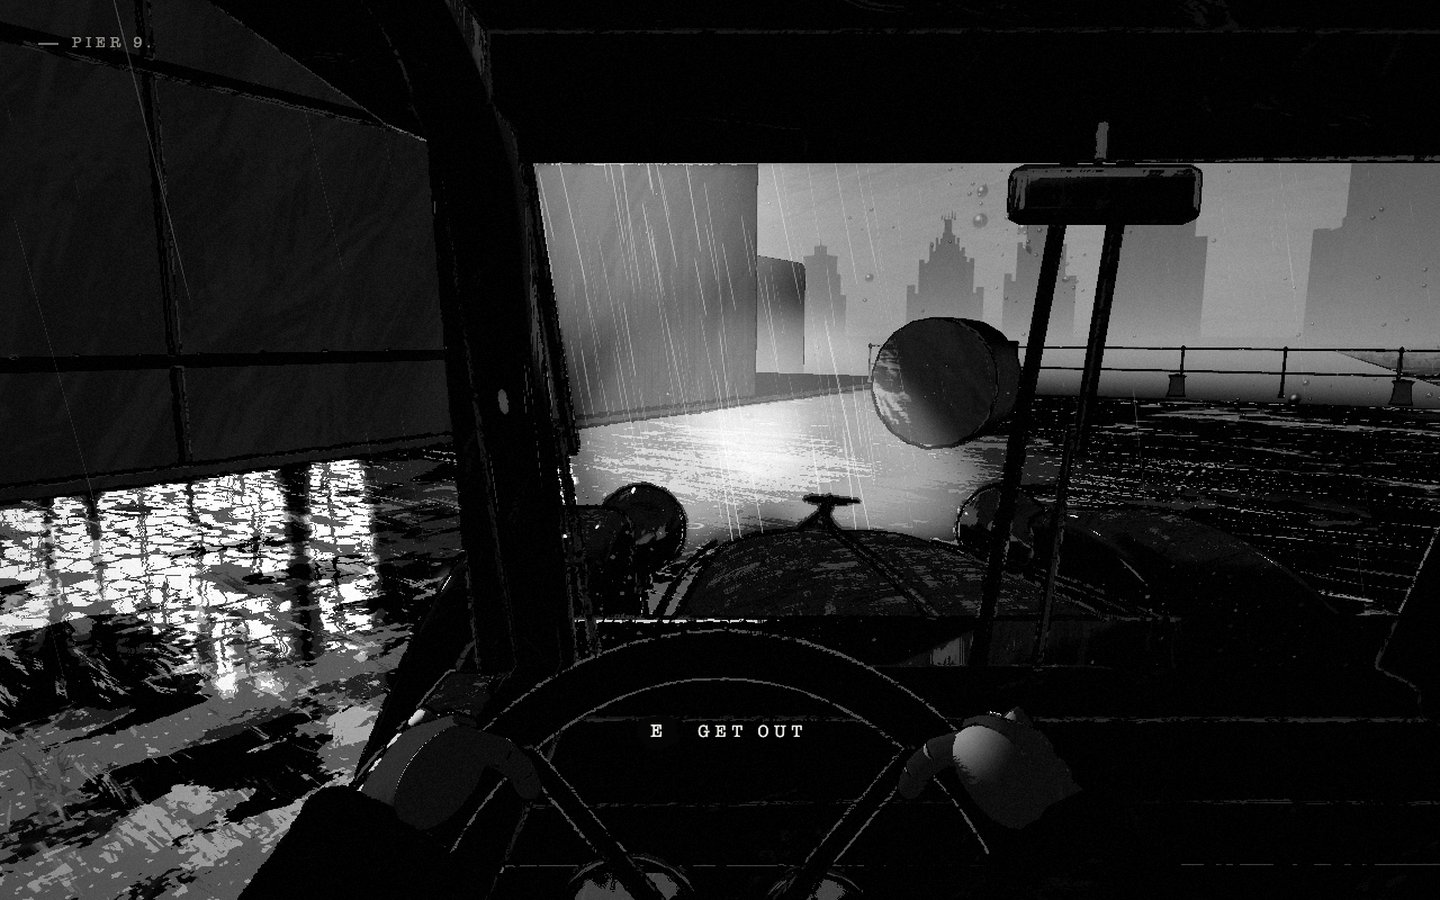
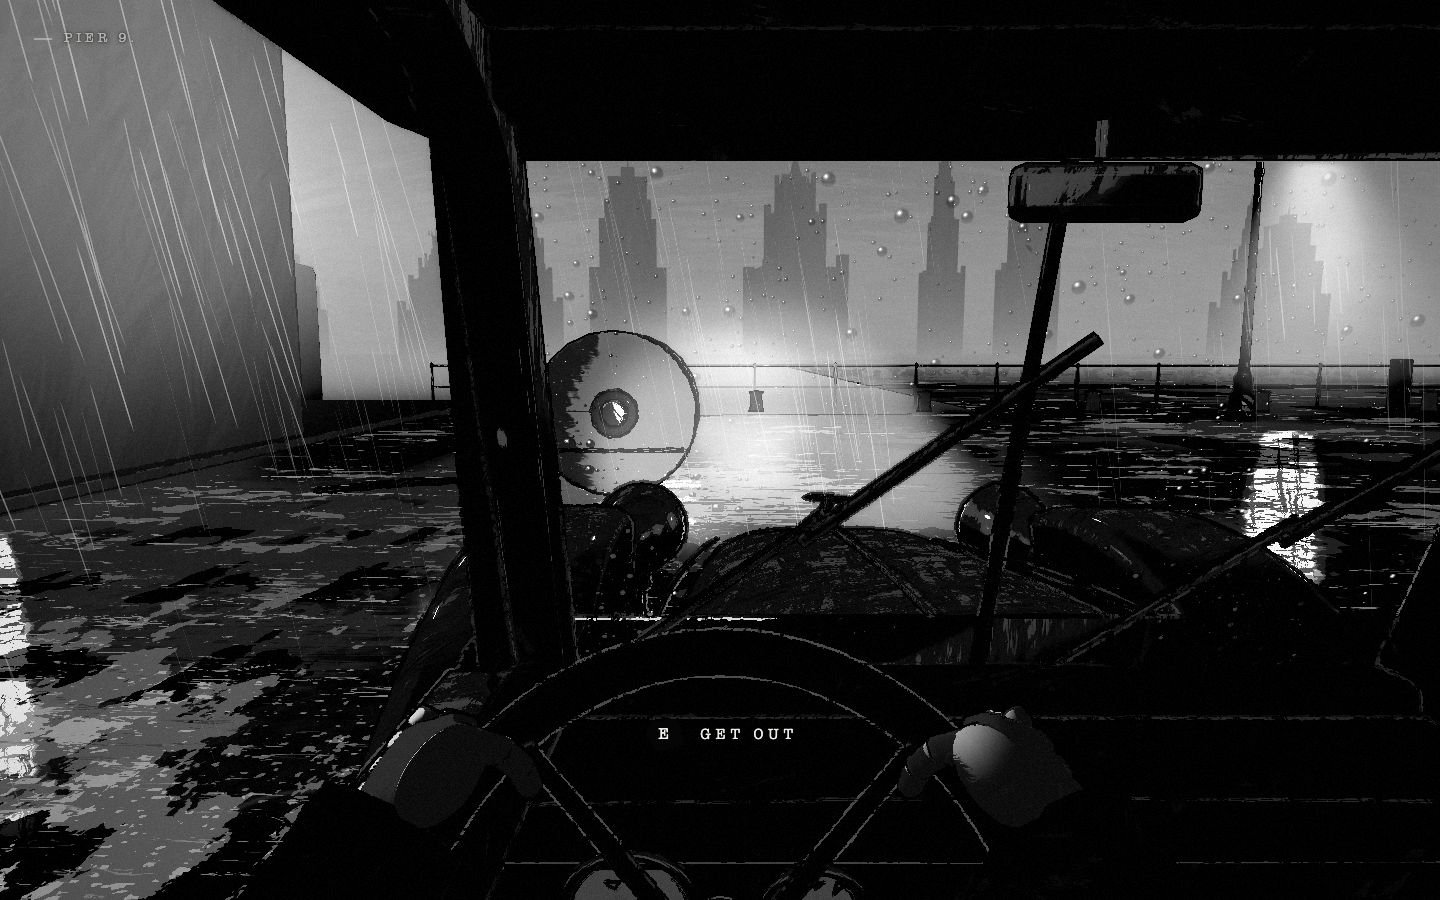
C3 2nd owner: while the eyes are on his crash and his car is behind the screen's left pillar, the head leans out of the window to see it (it was hidden right where the look went); review frames: the gun with the aim mark, the crash, the wreck, the gate, the doors, the fail's black, the cat on the wa

diff --git a/src/scenes/tail/chase.js b/src/scenes/tail/chase.js
@@ -403,6 +403,7 @@ export class Chase {
       this.kit.warn(null);
     }
     this.crashT += dt;
+    this.leanForCrash(dt);
     // the tyre smoke while he slides
     const r = this.ctx.rng;
     if (his.speedAbs > 2) for (let k = 0; k < 2; k++) {
@@ -413,6 +414,16 @@ export class Chase {
     // stopped (or long enough): the wreck
     this.stillT = his.speedAbs < 0.8 ? (this.stillT || 0) + dt : 0;
     if (this.stillT > 0.5 || this.crashT > 7) this.wrecked2();
+  }
+  // (his car behind the screen's left pillar as I watch him go: the head
+  // leans out of the window to see past it, and back once he is clear of it)
+  leanForCrash(dt) {
+    const my = this.my, his = this.his;
+    const e = this.game.camera.position;
+    const w0 = Math.atan2(-(his.pos.x - e.x), -(his.pos.z - e.z)) - (my.yaw - Math.PI / 2);
+    const w = Math.atan2(Math.sin(w0), Math.cos(w0));
+    const want = this.phase === 'crash' || this.phase === 'wreck' ? (w > 0.16 && w < 0.5 ? 0.75 : 0) : 0;
+    this.crashLean = (this.crashLean || 0) + (want - (this.crashLean || 0)) * (1 - Math.exp(-dt * 4));
   }
   wrecked2() {
     if (this.phase === 'wreck') return;
@@ -452,6 +463,7 @@ export class Chase {
   wreckStep(dt) {
     const W = this.wreck, his = this.his, G = this.game, r = this.ctx.rng;
     W.t += dt;
+    this.leanForCrash(dt);
     // the red lamps going out, one and then the other
     if (his.tail && W.t > 1.6 && W.lamps === 0) { W.lamps = 1; for (const sp of his.tail.userData.glows || []) if (sp.userData.side > 0) sp.visible = false; }
     if (his.tail && W.t > 3.4 && W.lamps === 1) { W.lamps = 2; his.tail.visible = false; for (const sp of his.tail.userData.glows || []) sp.visible = false; if (his.lamps) his.lamps.setOn(false); }

diff --git a/src/scenes/tail/gun.js b/src/scenes/tail/gun.js
@@ -71,7 +71,9 @@ export class WindowGun {
     const rate = want ? 1 / 0.22 : 1 / 0.3;
     this.aimK = clamp(this.aimK + Math.sign(want - this.aimK) * rate * dt, 0, 1);
     DRIVE.aim = this.aimK;
-    if (C.drive) { C.drive.lean = this.aimK; C.drive.aim = this.aimK > 0.5; }
+    // ([2nd owner] the head out of the window to see past the screen's
+    // pillar while the eyes are on his crash - chase.crashLean - gun or no)
+    if (C.drive) { C.drive.lean = Math.max(this.aimK, ch.crashLean || 0); C.drive.aim = this.aimK > 0.5; }
     this.show(this.aimK > 0.25);
     ch.kit.aimMark(this.aimK);
     this.cool = Math.max(0, this.cool - dt);
@@ -80,11 +82,11 @@ export class WindowGun {
     if (this.fireBuf > 0 && this.aimK > 0.9 && this.cool <= 0 && this.reloadT <= 0) { this.fireBuf = 0; this.fire(); }
   }
   holster(dt) {
-    if (this.aimK <= 0) return;
+    const C = this.game.controller, cl = this.chase.crashLean || 0;
+    if (this.aimK <= 0) { if (C.drive && (cl > 0.001 || C.drive.lean > 0.001)) C.drive.lean = cl; return; }
     this.aimK = Math.max(0, this.aimK - dt / 0.3);
     DRIVE.aim = this.aimK;
-    const C = this.game.controller;
-    if (C.drive) { C.drive.lean = this.aimK; C.drive.aim = false; }
+    if (C.drive) { C.drive.lean = Math.max(this.aimK, cl); C.drive.aim = false; }
     this.show(this.aimK > 0.25);
     this.chase.kit.aimMark(this.aimK);
   }
